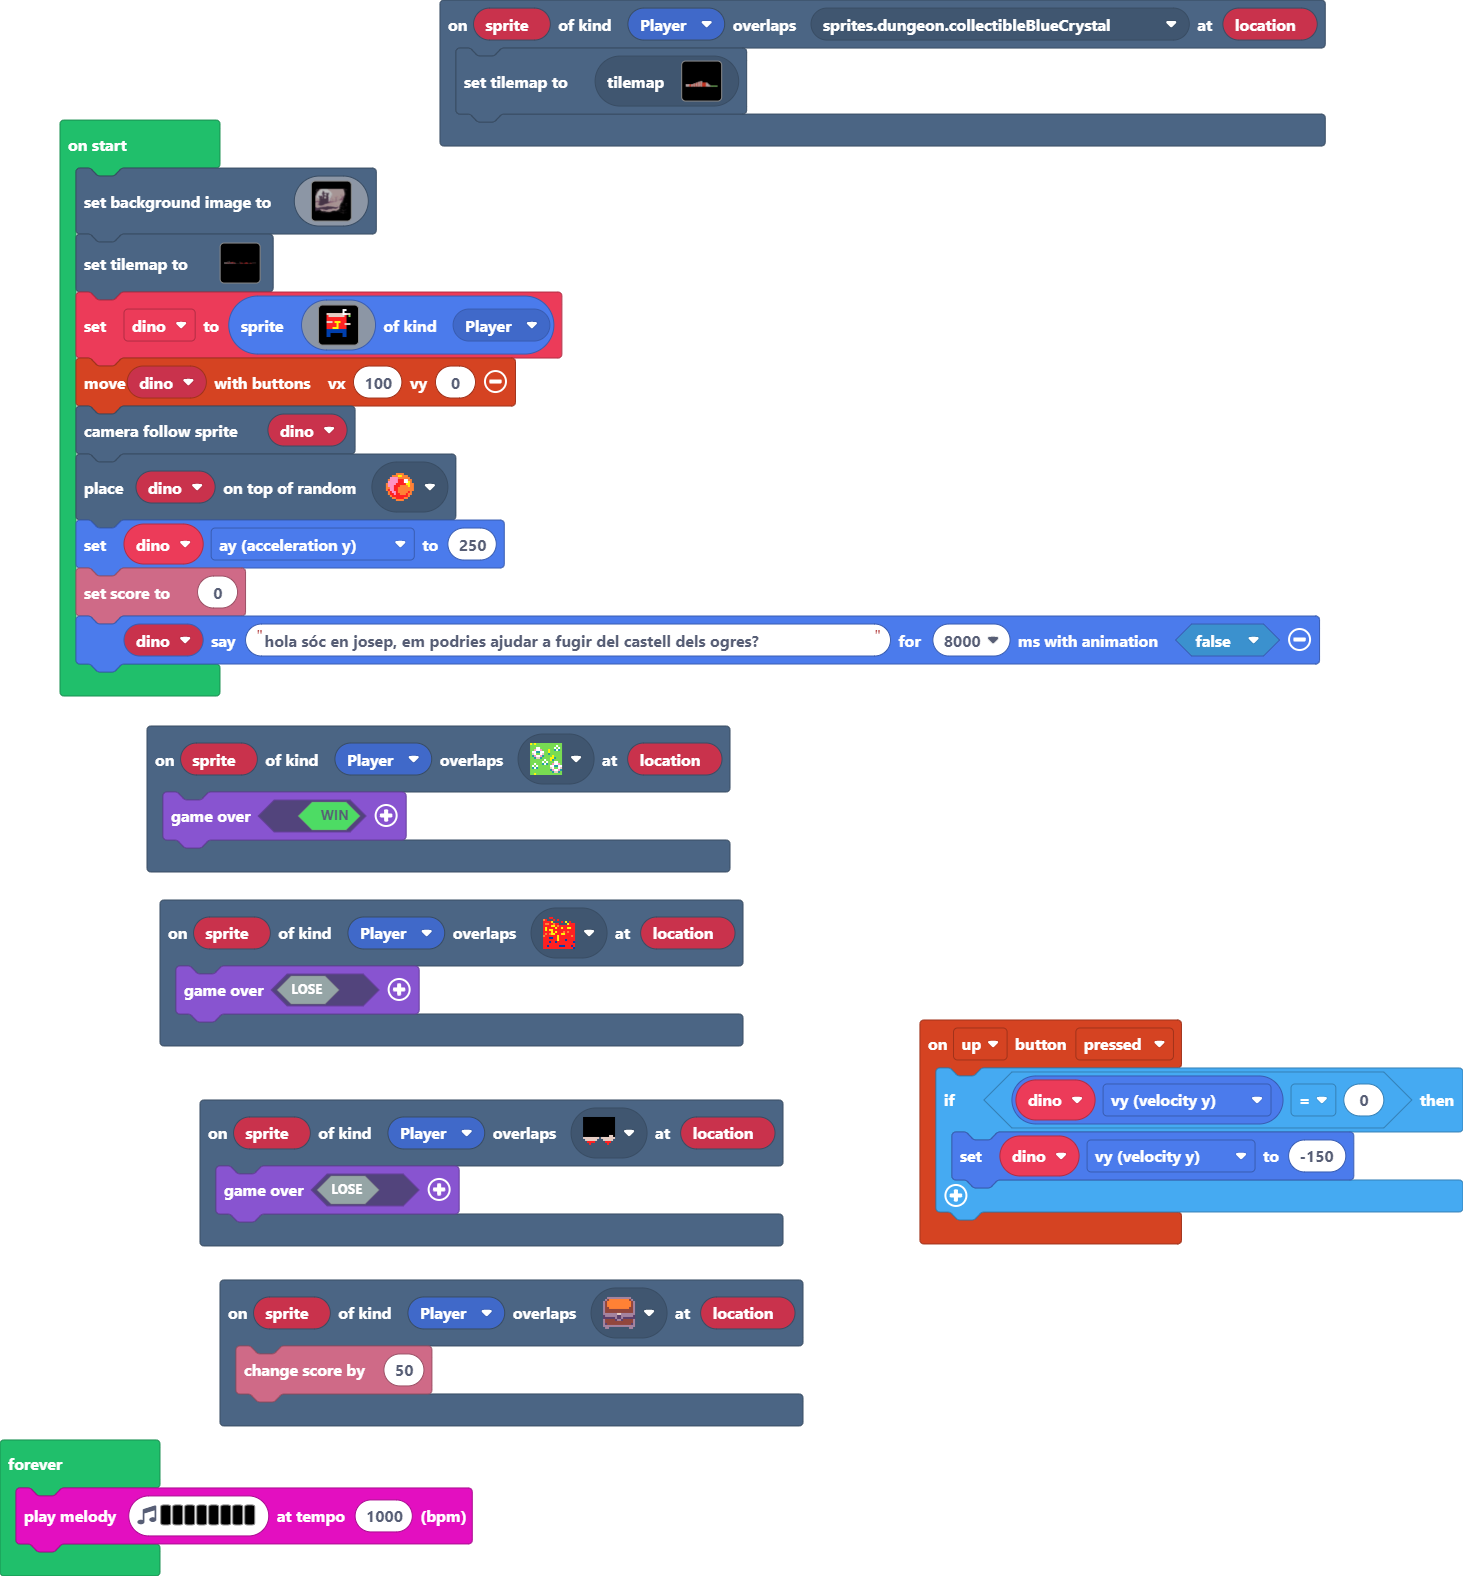
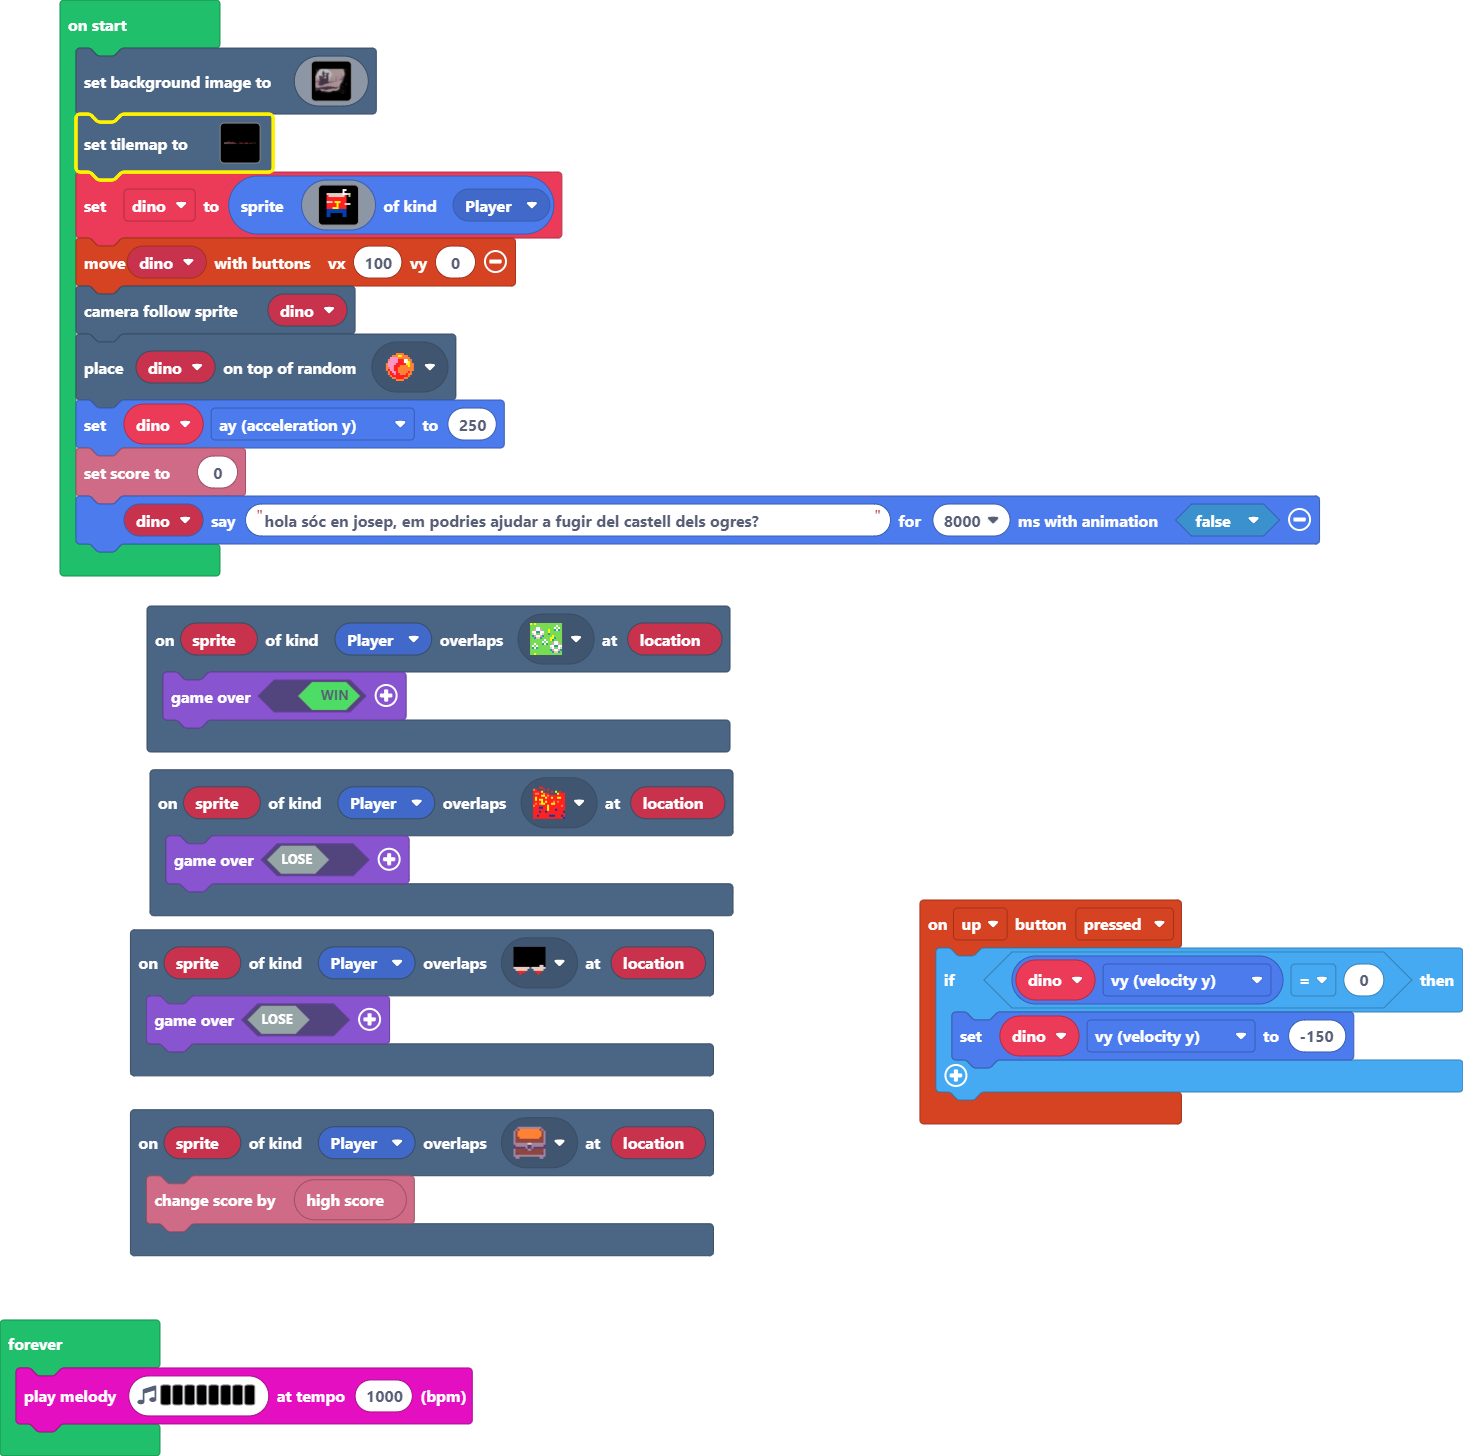
Update main.blocks, main.ts, tilemap.g.jres, tilemap.g.ts

diff --git a/tilemap.g.ts b/tilemap.g.ts
@@ -33,7 +33,7 @@ namespace myTiles {
 ..............................22222222222
 `, [myTiles.transparency16,myTiles.tile1,sprites.castle.tileGrass2,sprites.dungeon.floorLight0], TileScale.Sixteen);
             case "level1":
[2 lines of base64/hex data omitted]
 ...............................................................................................................................................................................................................................................................
 ...............................................................................................................................................................................................................................................................
 ...............................................................................................................................................................................................................................................................
@@ -52,9 +52,28 @@ namespace myTiles {
 222222222222.22..2222222222....22222222.2222...22222.....................2....2.......222.................................2........22.....222...........................222.............2222.........................22........................................
 ...........................................2...2....222222222222222222222...22........2222........................................222................................22..........................................22............................................
 ...........................................2..............................2222........22222......................................2222.............22.............222..2.....................222..............222........22.....................................
-...........................................2.....22222222222222222222222222222........222222...................................222222.............222........22..........................................22...............22...................................
-...........................................22222222222222222222222222222222222........2222222222222....22.....22...22.....22222222222.............222222222...................................2222222222...................222222...222...222..22...22...222222
-`, [myTiles.transparency16,myTiles.tile1,sprites.dungeon.floorLight0,sprites.dungeon.collectibleRedCrystal,sprites.dungeon.chestClosed,myTiles.tile2,sprites.dungeon.hazardLava0,myTiles.tile3,myTiles.tile4,sprites.dungeon.greenOuterNorth2,sprites.dungeon.darkGroundNorthWest1,sprites.castle.tileGrass2], TileScale.Sixteen);
+...........................................2......2222222222222222222222222222........222222...................................222222.............222........22..........................................22...............22...................................
+...........................................22222222222222222222222222222222222........2222222222222....22.....22...22.....22222222222.............222222222...................................2222222222...................222222...222...222..22...22...2.....
+`, [myTiles.transparency16,myTiles.tile1,sprites.dungeon.floorLight0,sprites.dungeon.collectibleRedCrystal,myTiles.tile2,sprites.dungeon.hazardLava0,myTiles.tile3,myTiles.tile4,sprites.dungeon.greenOuterNorth2,sprites.dungeon.darkGroundNorthWest1,sprites.castle.tileGrass2,sprites.dungeon.darkGroundSouthEast1], TileScale.Sixteen);
+            case "level3":
+            case "level3":return tiles.createTilemap(hex`1000100000000000000000000000000000000000000000000000000000000000000000000000000000000000000000000000000000000000000000000000000000000000000000000000000000000000000000000000000000000000000000000000000000000000000000000000000000000000000000000000000000000000000000000000000000000000000000000000000000000000000000000000000000000000000000000000000000000000000000000000000000000000000000000000000000000000000000000000000000000000000000000000000000000000000000000000000000000000000000000000000000000000000000000000000000000000`, img`
+. . . . . . . . . . . . . . . . 
+. . . . . . . . . . . . . . . . 
+. . . . . . . . . . . . . . . . 
+. . . . . . . . . . . . . . . . 
+. . . . . . . . . . . . . . . . 
+. . . . . . . . . . . . . . . . 
+. . . . . . . . . . . . . . . . 
+. . . . . . . . . . . . . . . . 
+. . . . . . . . . . . . . . . . 
+. . . . . . . . . . . . . . . . 
+. . . . . . . . . . . . . . . . 
+. . . . . . . . . . . . . . . . 
+. . . . . . . . . . . . . . . . 
+. . . . . . . . . . . . . . . . 
+. . . . . . . . . . . . . . . . 
+. . . . . . . . . . . . . . . . 
+`, [myTiles.transparency16], TileScale.Sixteen);
         }
         return null;
     })

diff --git a/main.ts b/main.ts
@@ -9,11 +9,8 @@ controller.up.onEvent(ControllerButtonEvent.Pressed, function () {
 scene.onOverlapTile(SpriteKind.Player, assets.tile`myTile`, function (sprite, location) {
     game.over(false)
 })
-scene.onOverlapTile(SpriteKind.Player, sprites.dungeon.collectibleBlueCrystal, function (sprite, location) {
-    tiles.setCurrentTilemap(tilemap`level2`)
-})
 scene.onOverlapTile(SpriteKind.Player, sprites.dungeon.chestClosed, function (sprite, location) {
-    info.changeScoreBy(50)
+    info.changeScoreBy(info.highScore())
 })
 scene.onOverlapTile(SpriteKind.Player, sprites.castle.tileGrass2, function (sprite, location) {
     game.over(true)
